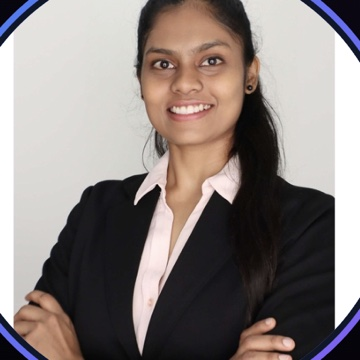
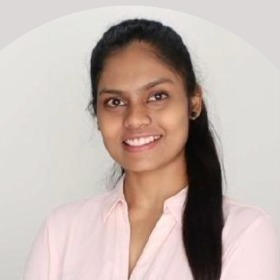
New portrait, and fix the entrance gate's sizing and stepping
The name was sized against the fallback font: document.fonts.ready reports the
font system idle, and at first paint the cross-origin stylesheet has often not
been parsed, so it resolved before Sora had even been requested. The fit is now
re-checked each frame for a few seconds and corrected whenever the measured
width drifts. It also measures at the size the node is already showing rather
than writing a guess first, because getComputedTextLength() read straight after
writing font-size can still report the previous layout — which settled the name
about 10% too wide. The name now fills 86% of the window, leaving a margin.

Stepping out of the gate now takes two gestures rather than three, and a step
tolerance stops a gesture from targeting the stop it is already standing on:
smooth scrolling settles on whole pixels, so a 185.33px step left the page at
185 and the gate refused to move past the first step.

Replaces the About portrait. The source is an oval on a black field, so the
letterbox is flood-filled with the photograph's own backdrop and the crop is
squared on her face; nothing in the photograph itself is altered.

diff --git a/src/components/ZoomIntro.jsx b/src/components/ZoomIntro.jsx
@@ -75,59 +75,86 @@ export default function ZoomIntro({ lines = ['AISHWARYA', 'BHANAGE'], enabled = 
 
   /* --- 2. size the lines, then locate the A -------------------------------- */
   /* Split from step 1 deliberately: the <svg> only renders once box.w is known,
-     so the text nodes do not exist on the first pass and cannot be measured. */
+     so the text nodes do not exist on the first pass and cannot be measured.
+
+     Fitting the name is done by watching rather than by listening. The obvious
+     approach, measuring once document.fonts.ready resolves, is a race: that
+     promise reports the font system currently idle, and at first paint the
+     cross-origin Google Fonts stylesheet has often not been parsed yet, so
+     nothing is pending and it resolves before Sora has even been asked for.
+     The name then stays sized to the fallback face, whose glyphs are narrower,
+     and the real font runs off both edges of the window. So instead the fit is
+     re-checked each frame for the first few seconds and corrected whenever the
+     measured width drifts — whenever the font actually lands, and however it
+     gets there. */
   useLayoutEffect(() => {
     if (!on || !box.w) return
     let live = true
+    let raf = 0
+    const deadline = performance.now() + 4000
 
-    const measure = () => {
-    if (!live) return
-    const next = lines.map((line, i) => {
+    // Rather than filling the window edge to edge, leave a clear margin: the
+    // name should look placed, not crammed.
+    const FILL = 0.86
+    const TALLEST = 0.38   // of the window, per line
+
+    /* Measure at whatever size the node is already showing, then scale that
+       reading to the target width. The obvious version — write a rough guess,
+       measure it, solve — is wrong: getComputedTextLength() read straight after
+       writing font-size can still report the previous layout, so the solve uses
+       a length that belongs to a different size and settles about 10% too big.
+       Reading first and writing after means the length always belongs to the
+       size it was taken at, and the correction is exact. */
+    const fit = () => lines.map((line, i) => {
       const t = textRefs.current[i]
       if (!t) return 0
-      const guess = box.w / (line.length * 0.62)
-      t.setAttribute('font-size', String(guess))
-      const len = t.getComputedTextLength() || 1
-      // Fit the width, but never so tall that the two lines run off the top
-      // and bottom of a short window.
-      return Math.min(guess * ((box.w * 0.94) / len), box.h * 0.42)
+      const cur = parseFloat(t.getAttribute('font-size')) || 10
+      const len = t.getComputedTextLength()
+      if (!len) return 0
+      const size = Math.min(cur * ((box.w * FILL) / len), box.h * TALLEST)
+      t.setAttribute('font-size', String(size))
+      return size
     })
-    if (next.every((n) => !n)) return
-    setSizes(next)
 
-    // Locating the A is the whole trick: everything zooms about this point, so a
-    // wrong answer magnifies blank ground instead of the letter. Keep asking
-    // until the glyph reports a real position rather than committing a guess.
-    let tries = 0
-    const locate = () => {
+    // Everything zooms about the counter of the A, so a wrong point magnifies
+    // blank ground instead of the letter. Ask until the glyph answers.
+    const locate = (sized) => {
       const t = textRefs.current[FOCUS_LINE]
       if (!t) return
-      let at = null
       try {
         const a = t.getStartPositionOfChar(FOCUS_CHAR)
         const b = t.getEndPositionOfChar(FOCUS_CHAR)
-        // The counter of a capital A is a triangle sitting high in the glyph.
-        if (b.x > a.x) at = { x: (a.x + b.x) / 2, y: a.y - next[FOCUS_LINE] * 0.26 }
+        if (b.x > a.x) {
+          focus.current = { x: (a.x + b.x) / 2, y: a.y - sized[FOCUS_LINE] * 0.26 }
+          return
+        }
       } catch { /* not laid out yet */ }
-
-      if (at) focus.current = at
-      else if (tries++ < 20) return requestAnimationFrame(locate)
       // Last resort: the left of the first line, where the A lives. Never the
       // middle of the card, which is the gap between the two lines.
-      else if (!focus.current.x) focus.current = { x: box.w * 0.07, y: box.h * 0.42 }
-
-      paint()
-    }
-    requestAnimationFrame(locate)
+      if (!focus.current.x) focus.current = { x: box.w * 0.07, y: box.h * 0.42 }
     }
 
-    measure()
-    // Measure again once Sora has actually arrived. The first pass runs against
-    // the fallback face, whose glyphs are narrower — size the name to that and
-    // the real font overflows the window on both sides.
-    if (document.fonts?.ready) document.fonts.ready.then(measure)
+    let applied = [0, 0]
+    const tick = () => {
+      if (!live) return
+      const next = fit()
+      if (next && next.some(Boolean)) {
+        // Only disturb React when the answer has actually moved.
+        const moved = next.some((n, i) => Math.abs(n - applied[i]) > applied[i] * 0.004 + 0.5)
+        if (moved) {
+          applied = next
+          setSizes(next)
+          requestAnimationFrame(() => { locate(next); paint() })
+        } else {
+          // Sizes are settled but the glyph may still be unmeasured.
+          if (!focus.current.x) { locate(next); paint() }
+        }
+      }
+      if (performance.now() < deadline) raf = requestAnimationFrame(tick)
+    }
+    tick()
 
-    return () => { live = false }
+    return () => { live = false; cancelAnimationFrame(raf) }
   }, [on, box.w, box.h, lines.join('|')]) // eslint-disable-line react-hooks/exhaustive-deps
 
   /* --- drive it from scroll ------------------------------------------------ */
@@ -205,10 +232,16 @@ export default function ZoomIntro({ lines = ['AISHWARYA', 'BHANAGE'], enabled = 
       const top = runwayTop()
       const total = STEPS * stepPx()
       const stride = dir > 0 ? stepPx() : total / OUT_STEPS
-      const at = (window.scrollY - top) / stride
+      // Smooth scrolling settles on whole pixels, so a step of 185.33px leaves
+      // you at 185 — a hair short of the stop. Without a real tolerance the
+      // next gesture floors back to the stop you are already standing on and
+      // the gate refuses to move at all.
+      const raw = (window.scrollY - top) / stride
+      const near = Math.round(raw)
+      const at = Math.abs(raw - near) < 0.05 ? near : raw
       const next = dir > 0
-        ? (Math.floor(at + 0.001) + 1) * stride
-        : (Math.ceil(at - 0.001) - 1) * stride
+        ? (Math.floor(at) + 1) * stride
+        : (Math.ceil(at) - 1) * stride
       const target = Math.max(0, Math.min(total, next))
       busy = true
       window.scrollTo({ top: top + target, behavior: 'smooth' })
